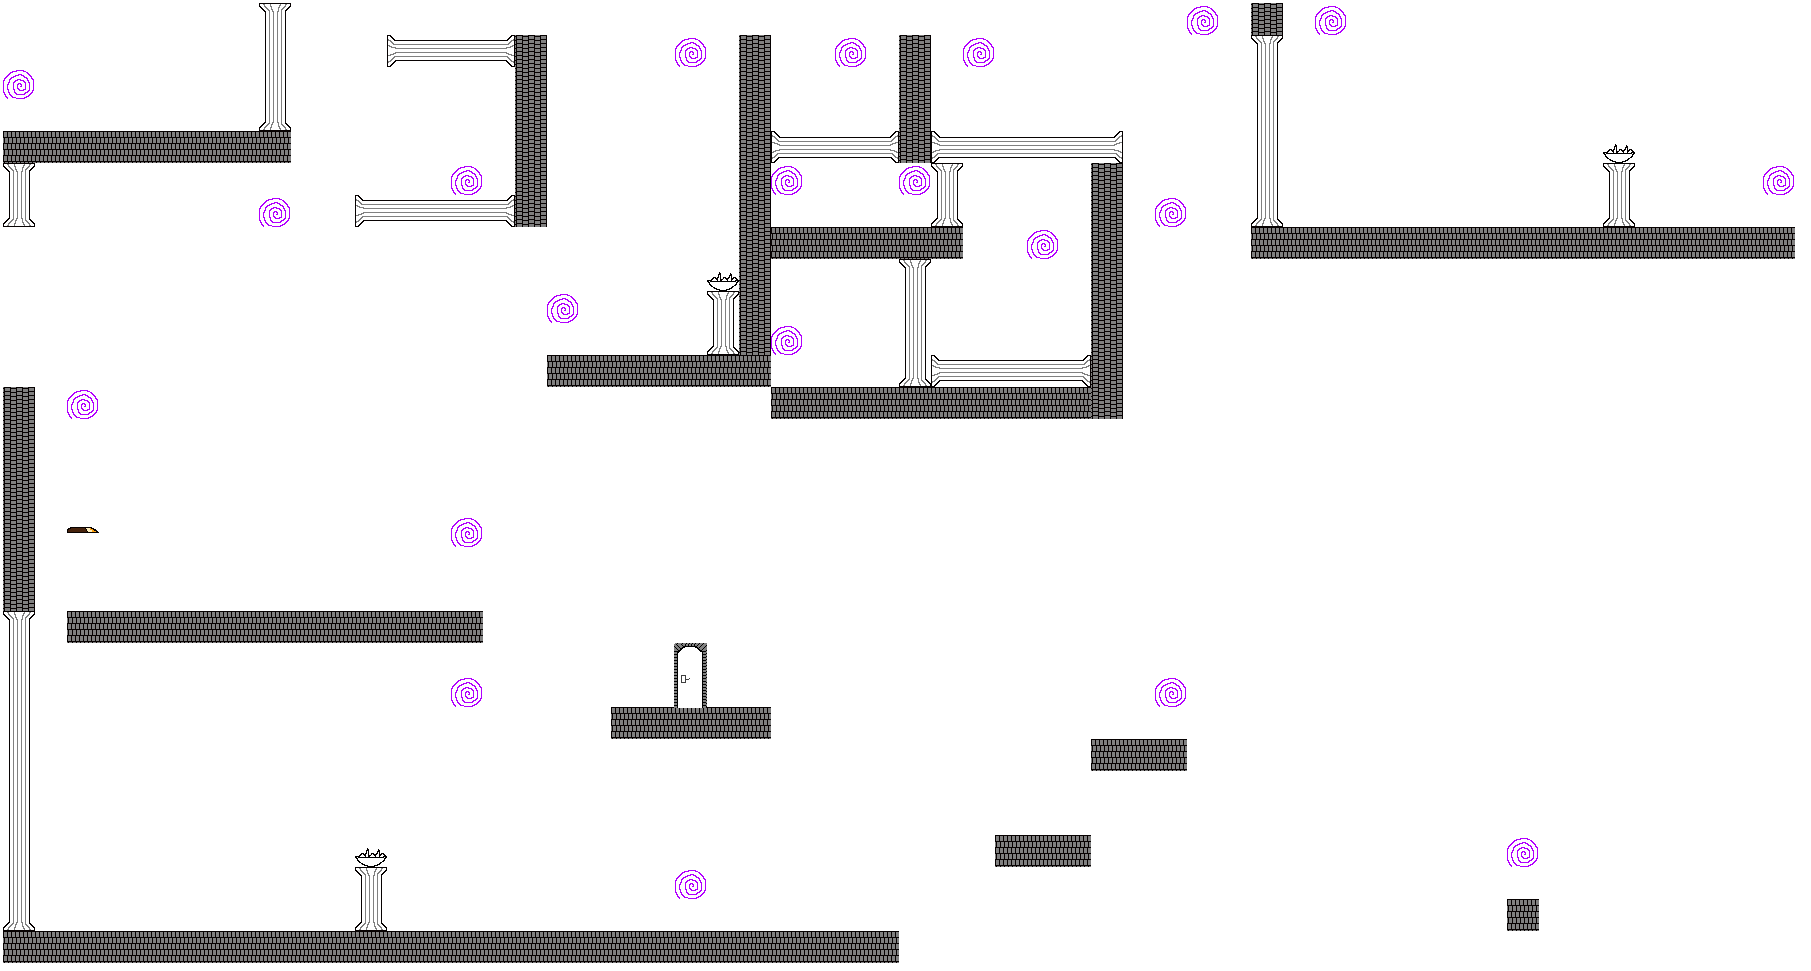
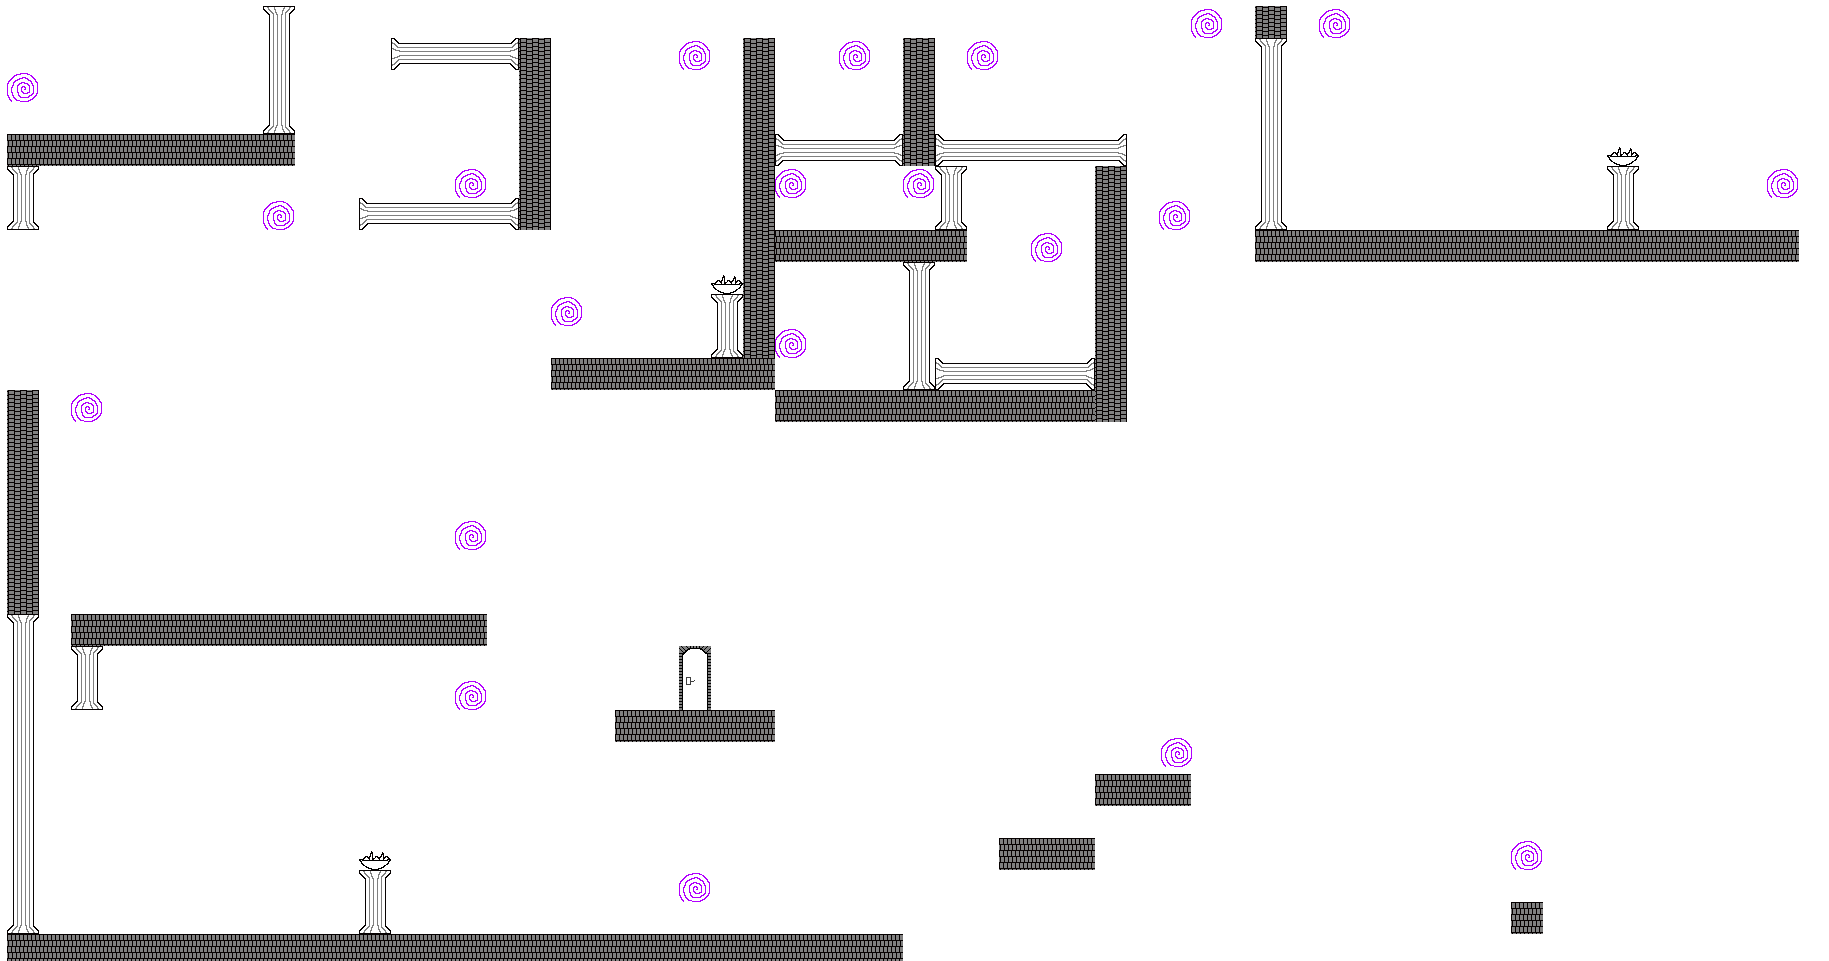
Fixed Escher level, added in proper rotation

diff --git a/Assets/Scripts/Managers/GravityWellManager.cs b/Assets/Scripts/Managers/GravityWellManager.cs
@@ -5,13 +5,16 @@ using UnityEngine;
 public class GravityWellManager : MonoBehaviour
 {
     public Vector2 gravity;
+    public Vector3 rotation;
+    private bool touched;
 
     void OnTriggerEnter2D(Collider2D coll)
     {
-        if(coll.gameObject.tag == "Player")
+        if (coll.gameObject.tag == "Player" && !touched)
         {
-            
             Physics2D.gravity = gravity;
+            coll.gameObject.transform.Rotate(rotation);
+            Destroy(this);
         }
     }
 }

diff --git a/Assets/Scripts/CreditsScroller.cs b/Assets/Scripts/CreditsScroller.cs
@@ -13,5 +13,9 @@ public class CreditsScroller : MonoBehaviour
         {
             creditsText.position = new Vector3(creditsText.position.x, creditsText.position.y + 1);
         }
+        if(Input.GetKeyDown(KeyCode.Escape))
+        {
+            GameObject.FindGameObjectWithTag("LevelManager").GetComponent<LevelManager>().loadMainMenu();
+        }
 	}
 }
